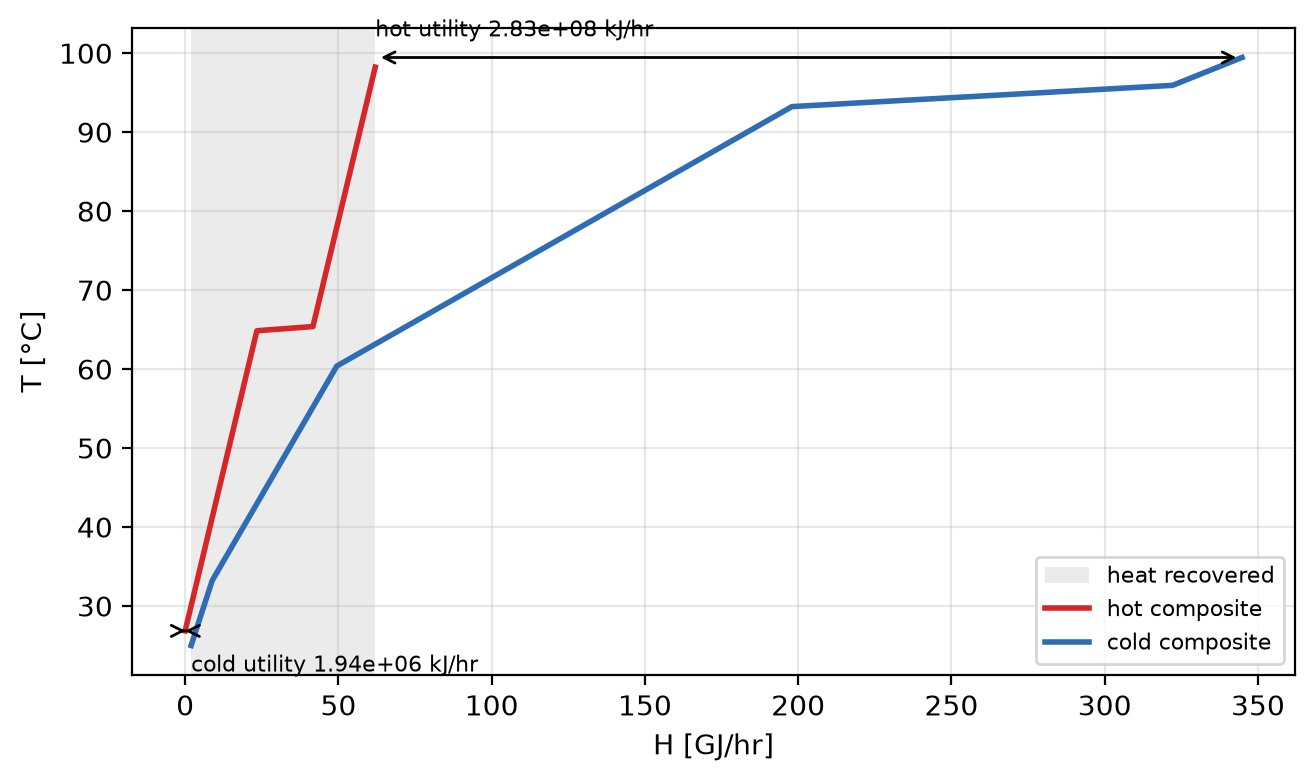
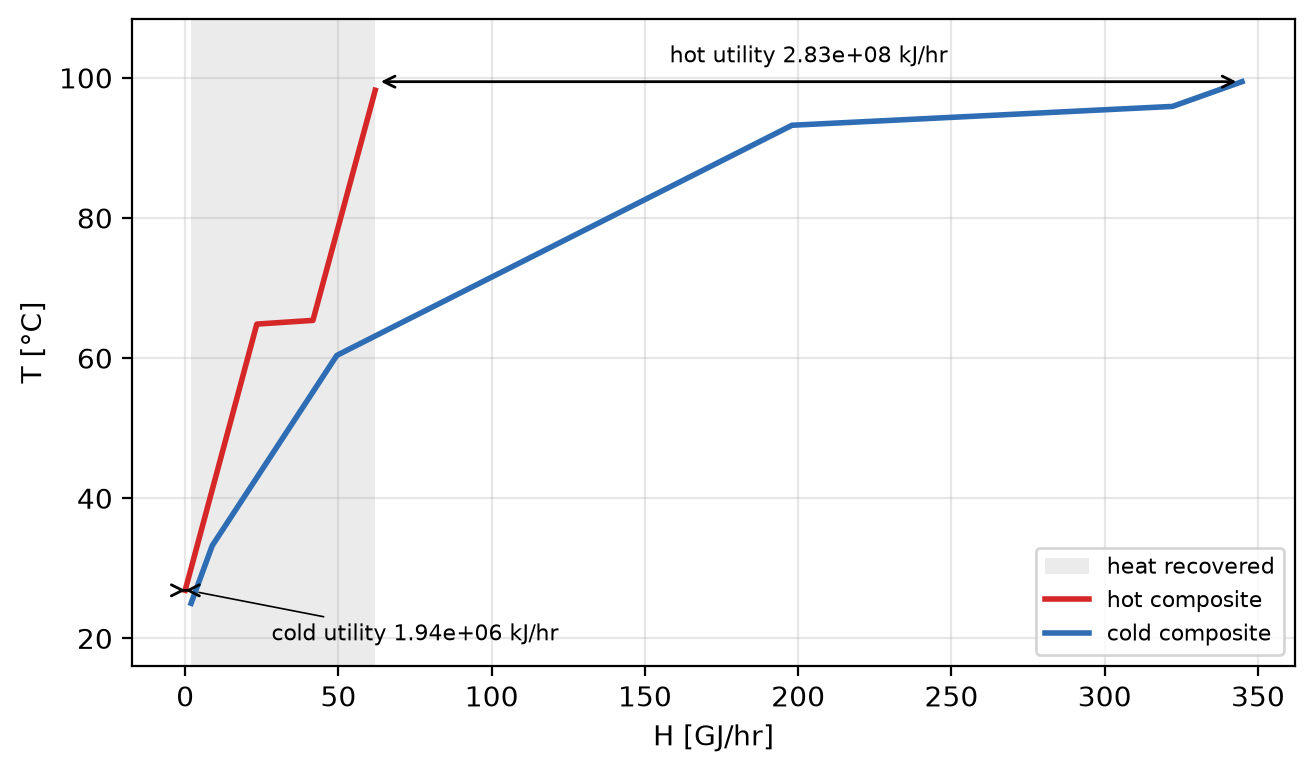
keep the composite-curve utility labels inside the axes frame
In the chapter 02 composite-curve figure the two utility labels were placed
by data coordinates just outside the curves' extremes (y_hi + 2 above the
hot end, y_lo - 3 below the cold end), but the axes autoscale only from the
plotted lines, so the "hot utility" text sat on the top spine and the
"cold utility" text on the bottom spine and x tick labels. Give the y axis
12 % margins (ax.margins), centre the hot-utility label over its span
arrow, and label the cold utility with a short leader instead of a text
sitting on the sub-pixel 1.94 GJ/hr span (about 6 px on a 350 GJ/hr axis,
where a double arrow collapses to an "x"). The plotted data, captures and
the grand-composite figure are unchanged (ch02 captures and
tutorial_02_grand_composite.png byte-identical after a full build_all.py
run); the PNG was regenerated from the script and inspected.

diff --git a/docs/_demo_src/examples/ch02_pinch_analysis.py b/docs/_demo_src/examples/ch02_pinch_analysis.py
@@ -130,10 +130,14 @@ def main():
     ax.plot(hot_H / GJ, hot_T - 273.15, color='#d62728', lw=2, label='hot composite')
     ax.plot(cold_H / GJ, cold_T - 273.15, color='#2e6db4', lw=2, label='cold composite')
     y_lo, y_hi = hot_T[0] - 273.15, cold_T[-1] - 273.15
+    ax.margins(y=0.12)   # headroom so the utility labels sit inside the frame
     ax.annotate('', xy=(0, y_lo), xytext=(cold_H[0] / GJ, y_lo), arrowprops=dict(arrowstyle='<->'))
-    ax.text(cold_H[0] / GJ, y_lo - 3, f'cold utility {table.cold_util_load:.3g} kJ/hr', ha='left', va='top', fontsize=8)
+    ax.annotate(f'cold utility {table.cold_util_load:.3g} kJ/hr', xy=(cold_H[0] / 2 / GJ, y_lo),
+                xytext=(30, -18), textcoords='offset points', fontsize=8,
+                arrowprops=dict(arrowstyle='-', lw=0.6, shrinkB=4))
     ax.annotate('', xy=(hot_H[-1] / GJ, y_hi), xytext=(cold_H[-1] / GJ, y_hi), arrowprops=dict(arrowstyle='<->'))
-    ax.text(hot_H[-1] / GJ, y_hi + 2, f'hot utility {table.hot_util_load:.3g} kJ/hr', ha='left', va='bottom', fontsize=8)
+    ax.text((hot_H[-1] + cold_H[-1]) / 2 / GJ, y_hi + 2, f'hot utility {table.hot_util_load:.3g} kJ/hr',
+            ha='center', va='bottom', fontsize=8)
     ax.set_xlabel('H [GJ/hr]'); ax.set_ylabel('T [°C]')
     ax.legend(loc='lower right', fontsize=8); ax.grid(alpha=0.3)
     # [end:curves]
